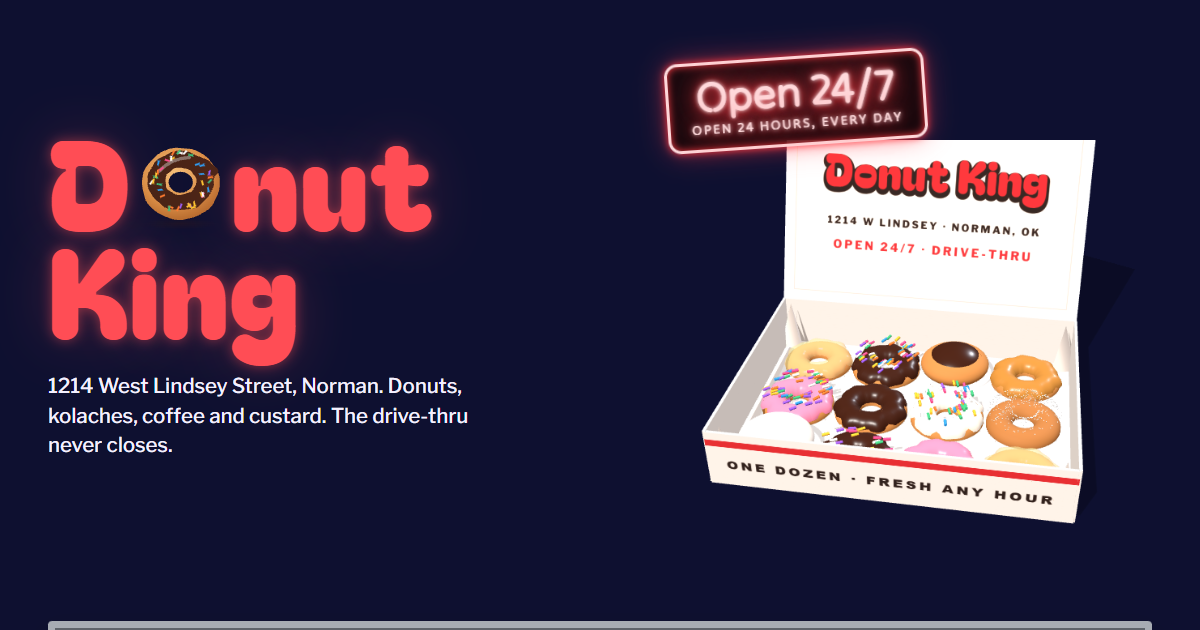
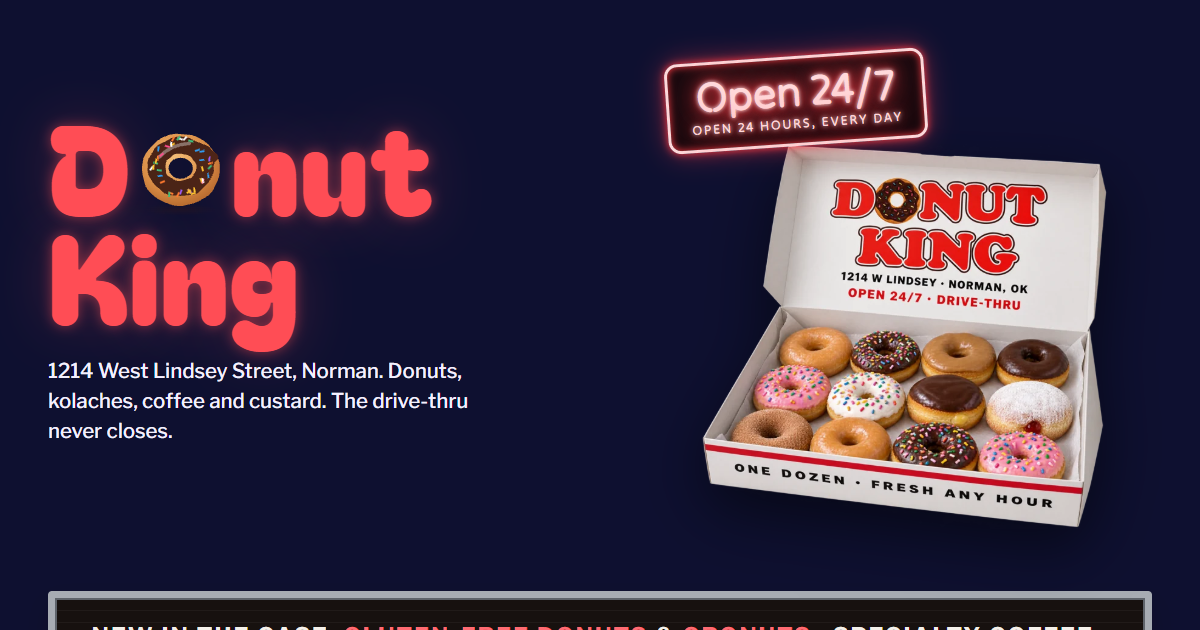
Photoreal box in the hero and photoreal donuts in the case (GPT Image 2.5 via Higgsfield); 3D scene retired to work/retired

Changed region(s): [[0.5858, 0.181, 0.925, 0.8444], [0.0308, 0.181, 0.4008, 0.7238], [0.0308, 0.9349, 0.9867, 1.0]]

diff --git a/index.html b/index.html
@@ -678,6 +678,8 @@ h2.sign{font-size:clamp(48px,6.6vw,96px);color:var(--red)}
 .box3d{cursor:pointer;touch-action:pan-y;-webkit-tap-highlight-color:transparent}
 .box3d canvas{display:block;width:100%;height:auto}
 .box3d:focus-visible{outline:3px solid var(--red);outline-offset:6px}
+.box-photo{display:block;width:100%;height:auto;filter:drop-shadow(0 22px 26px rgba(40,14,8,.22))}
+:root[data-look="night"] .box-photo{filter:drop-shadow(0 22px 30px rgba(0,0,0,.55))}
 .hero-art svg.box{width:100%;height:auto;filter:drop-shadow(0 18px 22px rgba(60,20,10,.16))}
 .neon{position:absolute;z-index:2;top:0;left:0;transform:rotate(-4deg);font:400 clamp(30px,3.6vw,52px)/1 "Tilt Neon",var(--body);color:#FFD9DB;padding:.24em .5em .28em;border:3px solid currentColor;border-radius:.3em;text-align:center;text-shadow:0 0 4px #fff,0 0 10px var(--neon),0 0 22px var(--neon),0 0 44px var(--neon);box-shadow:0 0 8px var(--neon),inset 0 0 8px var(--neon),0 0 26px rgba(255,59,68,.45);background:rgba(20,6,8,.9)}
 .neon small{display:block;font-size:.3em;letter-spacing:.16em;margin-top:.45em;text-transform:uppercase}
@@ -706,6 +708,7 @@ h2.sign{font-size:clamp(48px,6.6vw,96px);color:var(--red)}
 .item{padding:14px 4px 0;text-align:center;border-bottom:6px solid rgba(255,255,255,.9);box-shadow:0 7px 0 -1px rgba(120,60,40,.12);margin-bottom:18px}
 :root[data-look="night"] .item{border-bottom-color:rgba(200,210,255,.18);box-shadow:none}
 .item svg{width:80%;margin:0 auto}
+.item img.dn{display:block;width:92%;height:auto;aspect-ratio:1;object-fit:contain;margin:0 auto;filter:drop-shadow(0 8px 8px rgba(60,20,10,.18))}
 .tag{display:inline-block;margin:6px 0 12px;padding:6px 9px 5px;background:#fff;color:#1A0F0B;border:1px solid #D9D0CB;border-radius:2px;font:700 12px/1.25 var(--body);letter-spacing:.07em;text-transform:uppercase;box-shadow:0 1px 0 rgba(0,0,0,.08);max-width:100%}
 .tag em{display:block;font-style:normal;font-weight:500;letter-spacing:.04em;color:#7A5E54;font-size:11px;margin-top:2px}
 .tag .new{color:var(--red-ink);color:#C2141C}
@@ -810,8 +813,7 @@ footer .big svg{width:.8em;height:.8em}
     </div>
     <div class="hero-art">
       <div class="neon" role="status">Open 24/7<small id="nowText">Drive-thru open</small></div>
-      <svg class="box" id="box" viewBox="0 0 640 560" role="img" aria-label="A dozen donuts in an open Donut King box"></svg>
-      <div class="box3d" id="box3d" hidden tabindex="0" role="button" aria-label="A dozen donuts in a Donut King box. Press to open or close the lid."></div>
+      <img class="box-photo" src="img/box-dozen-1400.webp" srcset="img/box-dozen-800.webp 800w, img/box-dozen-1400.webp 1400w" sizes="(max-width:900px) 92vw, 46vw" width="1400" height="1120" alt="An open Donut King box holding a dozen assorted donuts: glazed, sprinkles, chocolate, strawberry, Boston creme, jelly and cinnamon sugar" fetchpriority="high">
     </div>
   </div>
 </section>
@@ -1071,13 +1073,21 @@ footer .big svg{width:.8em;height:.8em}
       ['Glazed','ring','gf','glazed',{gf:1,isNew:1}],['Chocolate frosted','ring','gf','choc',{gf:1,isNew:1}],['Strawberry','ring','gf','straw',{gf:1,isNew:1}],['Sprinkles','ring','gf','vanilla',{gf:1,sprinkles:40,isNew:1}]
     ]
   };
+  var PHOTO={
+    's-yeast':{'Glazed':'glazed','Chocolate frosted':'chocolate-frosted','Chocolate sprinkles':'chocolate-sprinkles','Strawberry frosted':'strawberry-frosted','Strawberry sprinkles':'strawberry-sprinkles','Vanilla sprinkles':'vanilla-sprinkles','Maple frosted':'maple-frosted','Apple crumb':'apple-crumb','Boston creme':'boston-creme','Bavarian creme':'bavarian-creme','Chocolate creme':'chocolate-creme','Vanilla creme':'vanilla-creme','Lemon creme':'lemon-creme','Strawberry':'strawberry','Black raspberry':'black-raspberry','Chocolate long john':'chocolate-long-john','Maple long john':'maple-long-john','Mini fritters':'mini-fritters'},
+    's-cake':{'Old fashion':'old-fashion','Buttermilk':'buttermilk','Plain cake':'plain-cake','Sugared':'sugared','Chocolate frosted':'cake-chocolate-frosted','Double chocolate':'double-chocolate','Chocolate honey dipped':'chocolate-honey-dipped','Blueberry':'blueberry','Apple spice':'apple-spice','Cinnamon crunch':'cinnamon-crunch','Toasted coconut':'toasted-coconut'},
+    's-fancy':{'Apple fritter':'apple-fritter','Cinnamon roll':'cinnamon-roll','Cinnamon twist':'cinnamon-twist','Glazed twist':'glazed-twist','Chocolate creme horn':'chocolate-creme-horn','Vanilla creme horn':'vanilla-creme-horn'},
+    's-holes':{'Glazed':'hole-glazed','Chocolate':'hole-chocolate','Cake':'hole-cake','Blueberry':'hole-blueberry'},
+    's-new':{'Glazed cronut':'cronut-glazed','Sugared cronut':'cronut-sugared','Chocolate cronut':'cronut-chocolate','Strawberry cronut':'cronut-strawberry','Glazed':'gf-glazed','Chocolate frosted':'gf-chocolate-frosted','Strawberry':'gf-strawberry','Sprinkles':'gf-sprinkles'}
+  };
   var KIND={'s-yeast':'Raised','s-cake':'Cake','s-fancy':'Fancy','s-holes':'Donut hole','s-new':''};
   Object.keys(CASE).forEach(function(k){
     var shelf=document.getElementById(k),html='';
     CASE[k].forEach(function(it){
       var extra=it[4]||{},spec={n:k+it[0],shape:it[1],dough:it[2],glaze:it[3]};for(var x in extra)spec[x]=extra[x];if(extra.seed)spec.seed=extra.seed;
       var d=k==='s-new'?(extra.gf?'Gluten-free':'Cronut'):KIND[k];
-      html+='<div class="item"><svg viewBox="0 0 200 200" aria-hidden="true">'+draw(spec)+'</svg><span class="tag">'+it[0]+'<em>'+(extra.isNew?'<span class="new">New</span> · ':'')+d+'</em></span></div>';
+      var ph=(PHOTO[k]||{})[it[0]];
+      html+='<div class="item">'+(ph?'<img class="dn" src="img/donuts/'+ph+'.webp" alt="" width="360" height="360" loading="lazy" decoding="async">':'<svg viewBox="0 0 200 200" aria-hidden="true">'+draw(spec)+'</svg>')+'<span class="tag">'+it[0]+'<em>'+(extra.isNew?'<span class="new">New</span> · ':'')+d+'</em></span></div>';
     });
     shelf.innerHTML=html;
   });
@@ -1086,39 +1096,6 @@ footer .big svg{width:.8em;height:.8em}
   render(document.querySelector('[data-donut="hero-o"]'),{seed:'hero-o',shape:'ring',glaze:'choc',sprinkles:38});
   render(document.querySelector('[data-donut="foot-o"]'),{seed:'foot',shape:'ring',glaze:'choc',sprinkles:30});
 
-  /* ---------- a dozen in an open box ---------- */
-  (function(){
-    var o='',W=640;
-    o+='<defs><linearGradient id="lid" x1="0" y1="0" x2="0" y2="1"><stop offset="0" stop-color="#FFFFFF"/><stop offset="1" stop-color="#EFE7E3"/></linearGradient>'+
-       '<linearGradient id="floor" x1="0" y1="0" x2="0" y2="1"><stop offset="0" stop-color="#E9DFDA"/><stop offset=".25" stop-color="#F8F3F0"/><stop offset="1" stop-color="#FFFFFF"/></linearGradient></defs>';
-    /* lid, open and leaning back, with the shop stamp */
-    o+='<path d="M76 186 L564 186 L604 18 L36 18 Z" fill="url(#lid)" stroke="#DCD1CC" stroke-width="2"/>';
-    o+='<path d="M76 186 L564 186 L566 178 L74 178 Z" fill="#E4D9D4"/>';
-    o+='<text x="320" y="116" text-anchor="middle" font-family="Bagel Fat One, Cooper Black, sans-serif" font-size="74" fill="#E0262D" stroke="#24110B" stroke-width="0" letter-spacing="1">Donut King</text>';
-    o+='<text x="320" y="156" text-anchor="middle" font-family="Libre Franklin, Arial, sans-serif" font-weight="800" font-size="15" letter-spacing="3" fill="#24110B">1214 W LINDSEY &#183; NORMAN, OK &#183; OPEN 24/7</text>';
-    /* inside: back wall, floor with wax paper */
-    o+='<path d="M76 186 L564 186 L556 212 L84 212 Z" fill="#DCCFC9"/>';
-    o+='<path d="M84 212 L556 212 L598 478 L42 478 Z" fill="url(#floor)"/>';
-    o+='<path d="M104 224 L540 218 L574 466 L70 472 Z" fill="#FFFFFF" opacity=".55"/>';
-    o+='<path d="M212 222 L196 468 M330 220 L332 468 M446 220 L468 466" stroke="#EADFDA" stroke-width="2" fill="none"/>';
-    /* a dozen, three rows of four, getting bigger toward the front */
-    var rows=[{y:214,s:108},{y:290,s:122},{y:376,s:138}];
-    var pick=[
-      {seed:'bx1',shape:'ring',glaze:'glazed'},{seed:'bx2',shape:'ring',glaze:'choc',sprinkles:40},{seed:'bx3',shape:'filled',glaze:'choc'},{seed:'bx4',shape:'ring',glaze:'maple'},
-      {seed:'bx5',shape:'ring',glaze:'straw',sprinkles:44},{seed:'bx6',shape:'ring',glaze:'glazed',crumb:1},{seed:'bx7',shape:'ring',glaze:'vanilla',sprinkles:40},{seed:'bx8',shape:'ring',glaze:'choc'},
-      {seed:'bx9',shape:'filled',glaze:'none',powder:1,fill:'#E0262D'},{seed:'bx10',shape:'ring',dough:'choc',glaze:'choc',sprinkles:30},{seed:'bx11',shape:'ring',glaze:'straw'},{seed:'bx12',shape:'ring',dough:'cake',glaze:'none',sugar:1}
-    ];
-    rows.forEach(function(row,ri){
-      var t=(row.y+row.s*.45-212)/(478-212),L=84+(42-84)*t,R=556+(598-556)*t,sp=(R-L)/4;
-      for(var i=0;i<4;i++){var x=L+sp*(i+.5)-row.s/2;
-        o+='<svg x="'+x.toFixed(1)+'" y="'+row.y+'" width="'+row.s+'" height="'+(row.s*.92).toFixed(1)+'" viewBox="0 0 200 200" preserveAspectRatio="none">'+draw(pick[ri*4+i])+'</svg>';}
-    });
-    /* front wall with the red band */
-    o+='<path d="M42 478 L598 478 L606 540 L34 540 Z" fill="#FFFFFF" stroke="#DCD1CC" stroke-width="2"/>';
-    o+='<path d="M40 486 L600 486 L601 496 L39 496 Z" fill="#E0262D"/>';
-    o+='<text x="320" y="525" text-anchor="middle" font-family="Libre Franklin, Arial, sans-serif" font-weight="800" font-size="15" letter-spacing="6" fill="#24110B">ONE DOZEN &#183; FRESH ANY HOUR</text>';
-    document.getElementById('box').innerHTML=o;
-  })();
 
   /* ---------- tabs ---------- */
   var tabs=[].slice.call(document.querySelectorAll('.tab'));
@@ -1143,7 +1120,5 @@ footer .big svg{width:.8em;height:.8em}
   tick();setInterval(tick,30000);
 })();
 </script>
-<script src="https://cdnjs.cloudflare.com/ajax/libs/three.js/r128/three.min.js" integrity="sha512-dLxUelApnYxpLt6K2iomGngnHO83iUvZytA3YjDUCjT0HDOHKXnVYdf3hU4JjM8uEhxf9nD1/ey98U3t2vZ0qQ==" crossorigin="anonymous" referrerpolicy="no-referrer" defer></script>
-<script src="js/box3d.js" defer></script>
 </body>
 </html>
